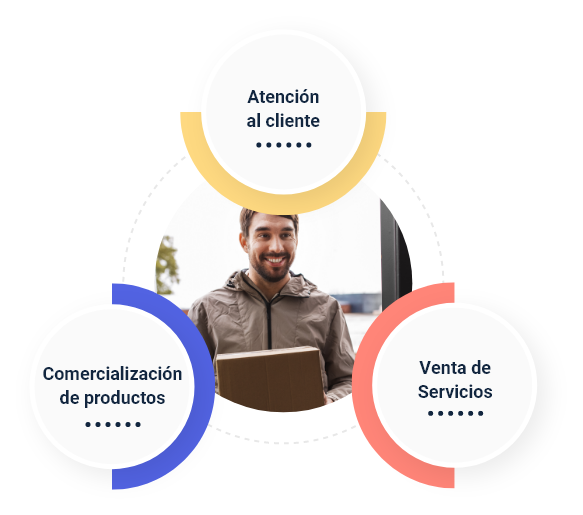
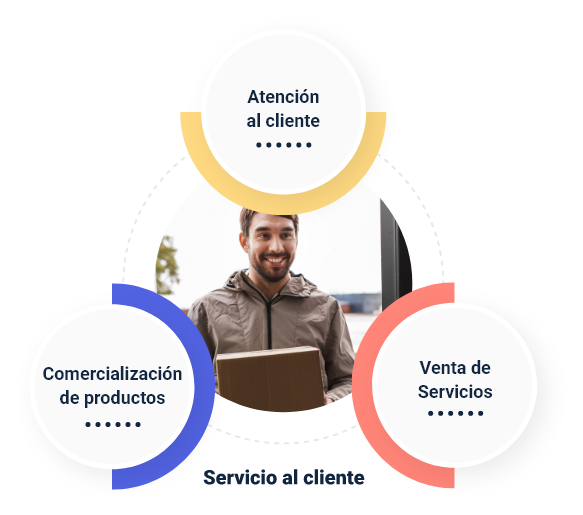
Ajuste imagen Tema 1

Changed region(s): [[0.3396, 0.901, 0.6175, 0.9631], [0.7719, 0.6835, 0.8336, 0.7456], [0.7101, 0.6835, 0.741, 0.7146]]

diff --git a/src/views/Tema1.vue b/src/views/Tema1.vue
@@ -14,8 +14,7 @@
           |  que se encarga de generar contacto con los clientes, implementando el uso de diferentes canales que permiten generar relación con el cliente antes, durante y después de la compra o la prestación del servicio.
         p El servicio al cliente se enmarca como la estrategia que implementan las empresas en busca de la satisfacción del cliente. Se diferencia de la atención al cliente, ya que esta es la acción que se aplica en el día a día. De acuerdo con la conceptualización, se puede ver el siguiente video más detallado:                   
       .col-lg-6(data-aos="zoom-in-right")
-        .titulo-sexto.color-acento-contenido.mb-0
-          h5 Servicio al cliente
+
         img.img-t1(src='@/assets/curso/tema1/img1.png' alt='AvatarTop')
 
     figure.mb-5
